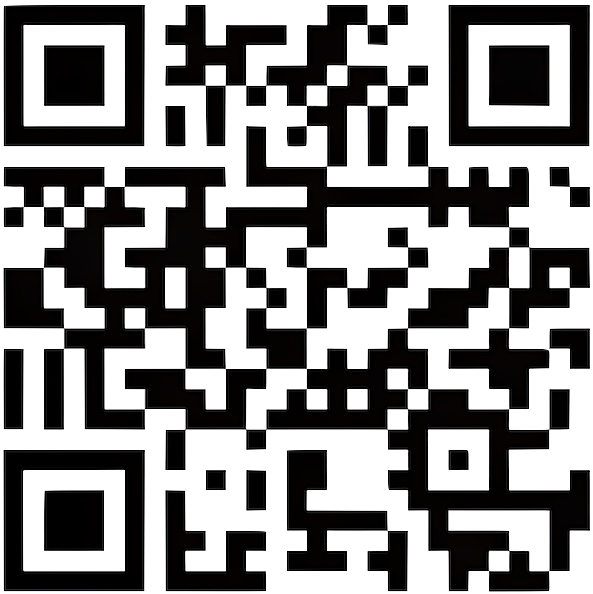
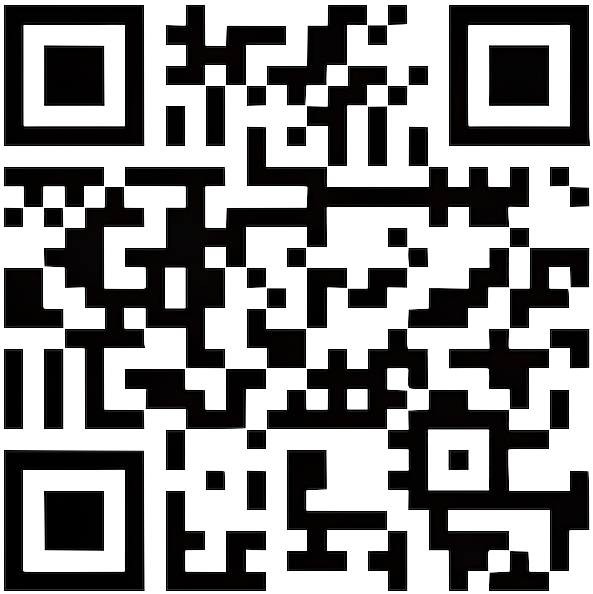
update images

diff --git a/index.html b/index.html
@@ -9,8 +9,13 @@
 </head>
 <body>
     <div class="container">
-        <img src="qr-bw.png" alt="Static Display" class="responsive-image">
+        <h1>Open Says Me</h1>
     </div>
+    <div class="container">
+        <img src="qr.png" alt="Static Display" class="responsive-image">
+    </div>
+    <div class="container">
+        <a href="https://www.myenvera.com/QR?code=kGLBZfxy626XqnT8XkKJ7g==">Original QR Code</a>
     <script src="app.js"></script>
 </body>
 </html>

diff --git a/sw.js b/sw.js
@@ -3,7 +3,7 @@ const ASSETS = [
     '/',
     '/index.html',
     '/styles.css',
-    '/qr-bw.png',
+    '/qr.png',
 ];
 
 // Install event
